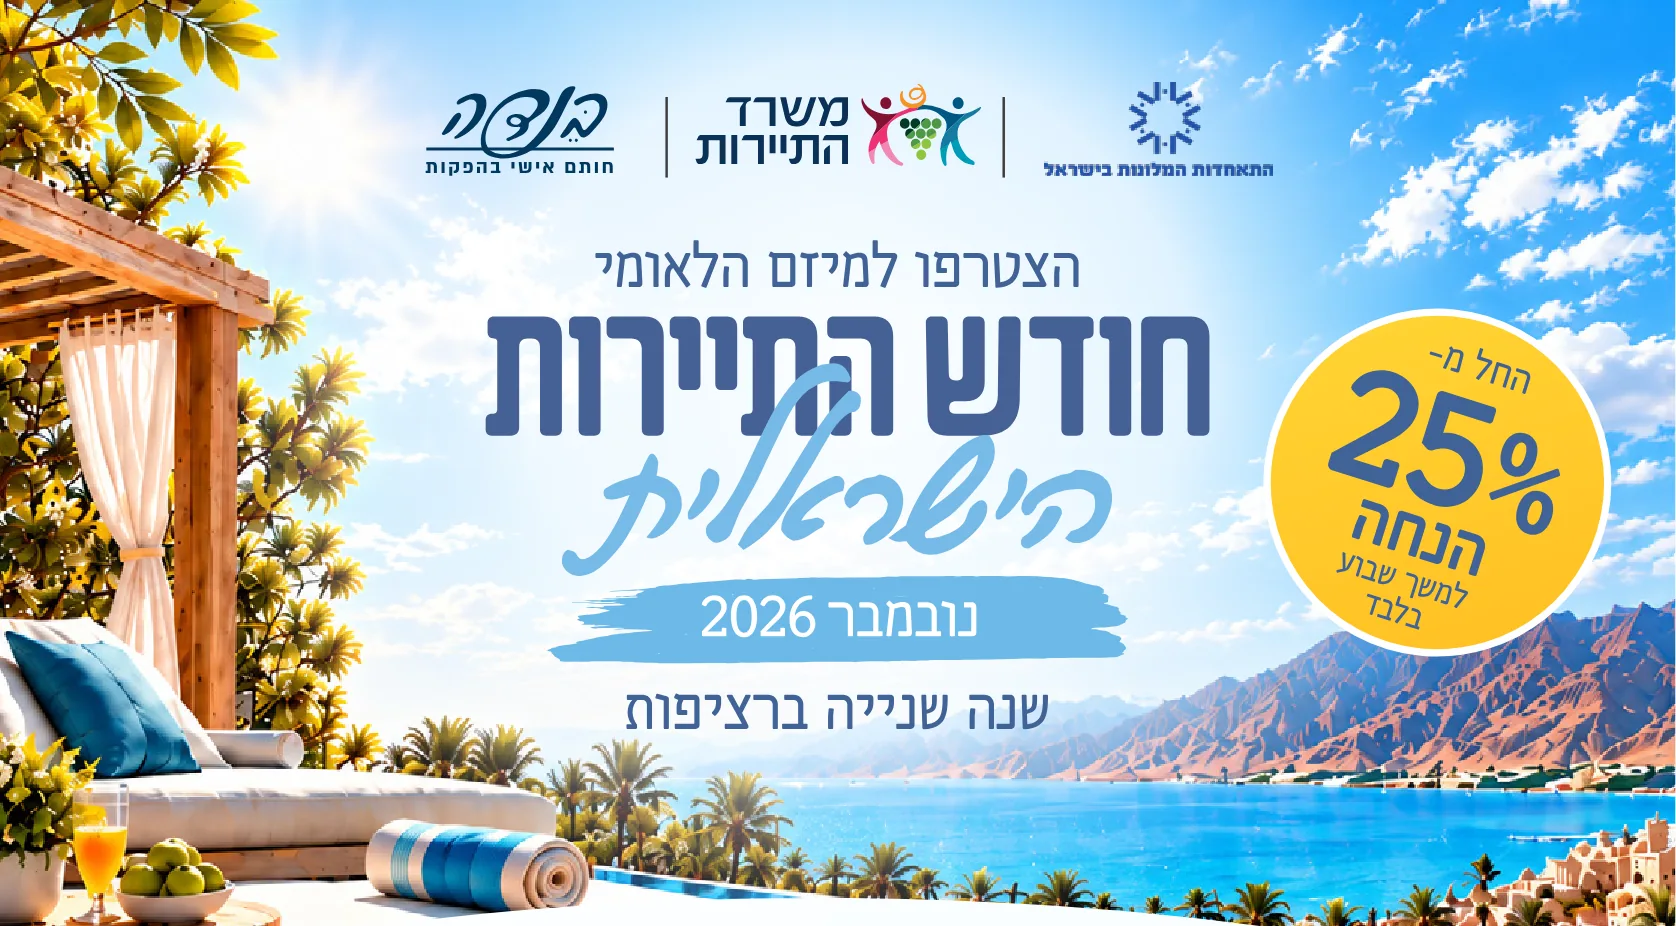
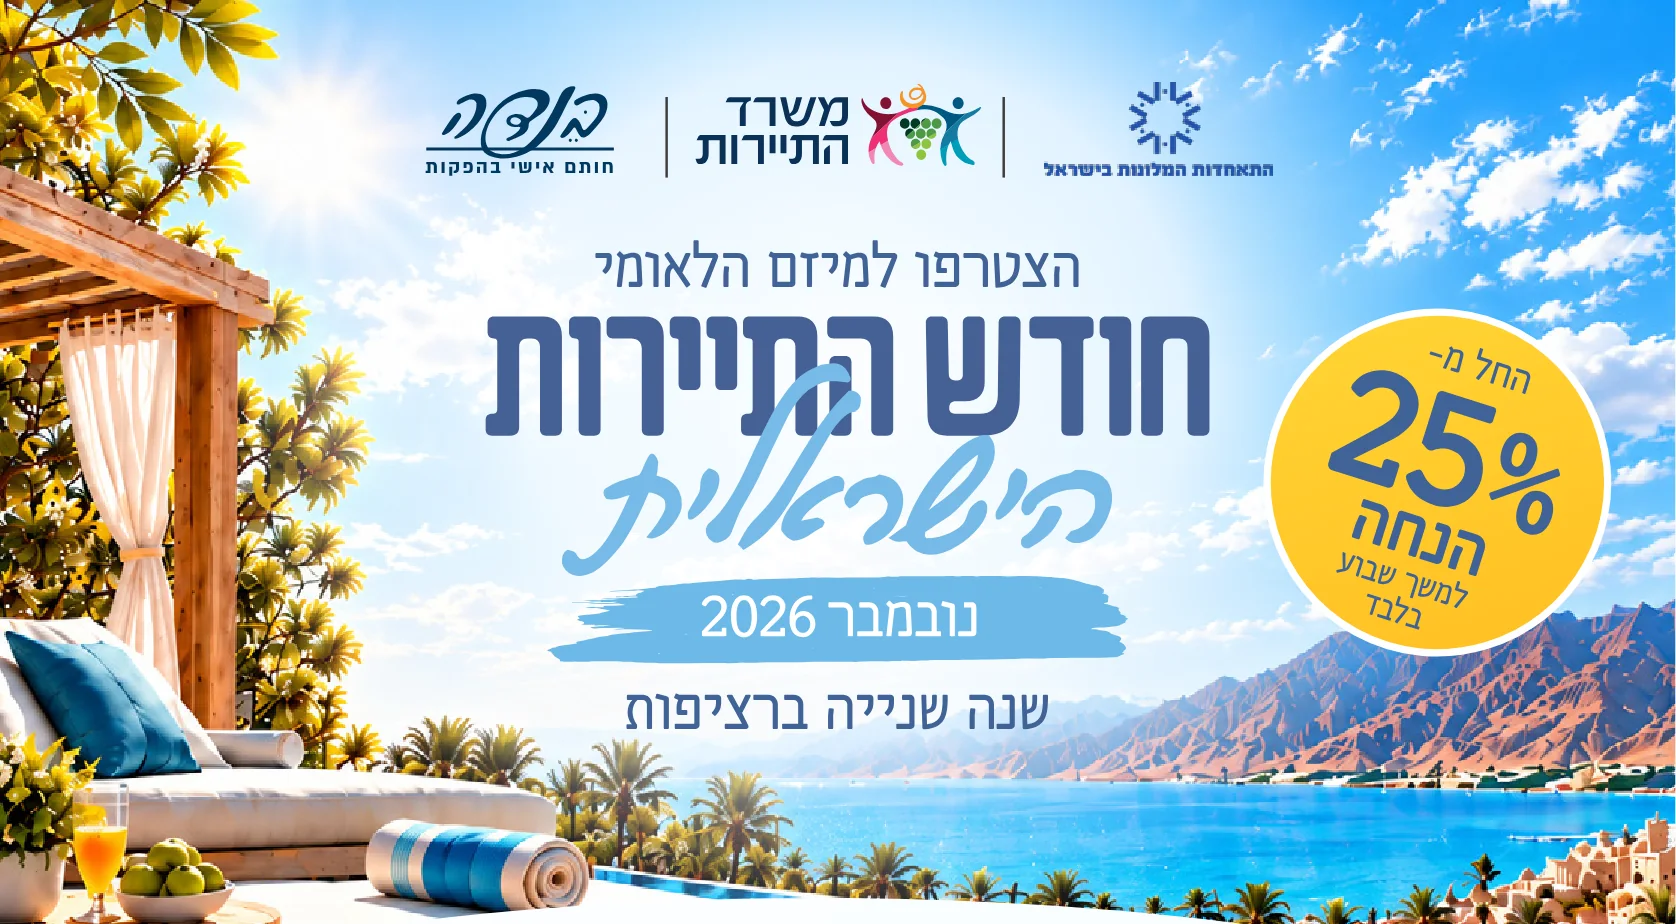
The hotels' call, one to one: the ad's top as the ad draws it, and whole leaves
The top of the page is the ad's top again, exactly as the PDF renders it
— the terrace, the bay, the sun's glow behind the type, the three marks,
the headline with the script across it, the brush, the badge — one
picture, nothing recomposed. A phone gets the same top cut to its text
column: the three marks, the headline and the badge whole, and no terrace.

The leaves come from the ad's vector layer, lifted with real transparency
(the page rendered over black and over white with every picture painted
flat; what differs is background showing through), so each cluster is
whole — no circle's edge, no straight cut. The week icons, the exposure
marks and the WhatsApp mark come from the same layer. On a phone the
leaves sit small at the top corners of each band, behind the pictures,
never on the copy.

Verified in a fresh browser at 390 and 1440: the hero at 1440 is the ad's
own top pixel for pixel; no horizontal scroll; every picture loads; the
end-to-end run through the hotels' call is ALL GREEN.

diff --git a/scripts/design/extract-hotel-assets.ts b/scripts/design/extract-hotel-assets.ts
@@ -1,94 +1,167 @@
 import { mkdirSync, readFileSync } from 'node:fs'
+import { resolve } from 'node:path'
+import { createCanvas } from '@napi-rs/canvas'
 import sharp from 'sharp'
 import { renderPdf } from '../qa/render-pdf'
 
 /**
  * Cuts the hotels' ad ("מודעה קליקבילית-1.pdf", the approved design for the
- * hotels' version of the call) into the pieces HotelCall.tsx composes: the
- * whole top as one picture, the four regional weeks with their pins, the
- * four exposure marks, the WhatsApp mark and the foot. Body copy is real
- * text on the page and is not cut.
+ * hotels' version of the call) into the pieces HotelCall.tsx composes.
  *
- * The ad is a PDF whose type is vector and whose pictures are embedded, so
- * it is rendered at 3× first (1676×2526) and cut from that; the boxes below
- * are in those pixels, written down from the ad at 1327 wide and scaled.
+ * The ad is a PDF: its photographs are embedded pictures, everything else —
+ * the type, the three marks, the badge, the brush, the leaves, the rings,
+ * the pins, the icons, the wave — is vector. Two renders serve the cuts:
+ *
+ *   • the plain render, exactly as the ad looks, for everything that is
+ *     placed as the ad places it: the whole top (one picture for wide
+ *     screens; the text column with the badge, for phones), the four weeks
+ *     and the foot;
+ *   • the vector layer, lifted with real transparency by rendering the page
+ *     twice, over black and over white, with every picture painted flat as
+ *     well — what differs between the two renders is background showing
+ *     through, and how much of it is the alpha — for the pieces that stand
+ *     somewhere else on the page: the leaves, the icons, the WhatsApp mark.
+ *
+ * Boxes are in the pixels of the 3× render (1676×2526).
  *
  *   npx tsx scripts/design/extract-hotel-assets.ts [path/to/ad.pdf]
  *   → public/tourism-2026/hotel/*.webp
  */
 const SRC = process.argv[2] ?? '.design/tourism-2026-hotel/ad.pdf'
 const OUT = 'public/tourism-2026/hotel'
-const S = 1676 / 1327
+const SCALE = 3
+const S = 1676 / 1327 // the ad at 1327 wide, where the boxes were first written down → render pixels
 
-type Box = { name: string; left: number; top: number; right: number; bottom: number; width?: number; quality?: number; /** Cut out of the paper: the page's own white shows through. */ keyed?: boolean; /** A box to paint over in the paper's white, in the crop's own pixels (the ad's own mark, replaced on the page). */ blank?: [number, number, number, number]; /** Keep only the ring and its pin: the leaves that reach into the box go. */ week?: boolean }
+type RGBA = { width: number; height: number; data: Buffer }
+
+// ── the three renders ────────────────────────────────────────────────────────
+
+async function renderMatte(fill: 0 | 255): Promise<RGBA> {
+  const pdfjs = await import('pdfjs-dist/legacy/build/pdf.mjs')
+  const doc = await pdfjs.getDocument({ data: new Uint8Array(readFileSync(SRC)), useSystemFonts: false, standardFontDataUrl: resolve('node_modules/pdfjs-dist/standard_fonts') + '/' }).promise
+  const page = await doc.getPage(1)
+  // The worker hands every picture to the renderer as the page draws; each one is painted flat as it lands.
+  const objs = page.objs as unknown as { resolve: (id: string, data: unknown) => void }
+  const orig = objs.resolve.bind(objs)
+  objs.resolve = (id, data) => {
+    const d = data as { width?: number; height?: number; data?: Uint8ClampedArray } | null
+    if (d?.data && d.width && d.height && d.data.length === d.width * d.height * 3) d.data.fill(fill)
+    orig(id, data)
+  }
+  const viewport = page.getViewport({ scale: SCALE })
+  const canvas = createCanvas(Math.ceil(viewport.width), Math.ceil(viewport.height))
+  const ctx = canvas.getContext('2d')
+  // eslint-disable-next-line @typescript-eslint/no-explicit-any
+  await page.render({ canvasContext: ctx as any, canvas: canvas as any, viewport, background: fill ? '#ffffff' : '#000000' }).promise
+  const { data } = ctx.getImageData(0, 0, canvas.width, canvas.height)
+  await doc.cleanup()
+  return { width: canvas.width, height: canvas.height, data: Buffer.from(data.buffer) }
+}
+
+/** The vector layer: colour from the render over black, alpha from how much lighter the render over white came out. */
+async function vectorLayer(): Promise<RGBA> {
+  const black = await renderMatte(0)
+  const white = await renderMatte(255)
+  const { width, height } = black
+  const out = Buffer.alloc(width * height * 4)
+  for (let i = 0; i < width * height; i++) {
+    let diff = 0
+    for (let c = 0; c < 3; c++) diff += white.data[i * 4 + c] - black.data[i * 4 + c]
+    const a = Math.max(0, Math.min(1, 1 - diff / (3 * 255)))
+    for (let c = 0; c < 3; c++) out[i * 4 + c] = a > 0 ? Math.min(255, Math.round(black.data[i * 4 + c] / a)) : 0
+    out[i * 4 + 3] = Math.round(a * 255)
+  }
+  return { width, height, data: out }
+}
+
+// ── the cuts ─────────────────────────────────────────────────────────────────
+
+type Box = {
+  name: string
+  left: number
+  top: number
+  right: number
+  bottom: number
+  /** From the vector layer (with its alpha) rather than the plain render. */
+  vector?: boolean
+  /** Keep only the leaf hues — the copy and the marks beside a leaf go. */
+  leaf?: boolean
+  /** Keep only the ring and its pin: the leaves that reach into the box go. */
+  week?: boolean
+  /** A box to paint over in the paper's white, in the crop's own pixels. */
+  blank?: [number, number, number, number]
+  width?: number
+  quality?: number
+}
 const d = (name: string, l: number, t: number, r: number, b: number, extra: Partial<Box> = {}): Box => ({ name, left: Math.round(l * S), top: Math.round(t * S), right: Math.round(r * S), bottom: Math.round(b * S), ...extra })
+const v = (name: string, left: number, top: number, right: number, bottom: number, extra: Partial<Box> = {}): Box => ({ name, left, top, right, bottom, vector: true, ...extra })
+const p = (name: string, left: number, top: number, right: number, bottom: number, extra: Partial<Box> = {}): Box => ({ name, left, top, right, bottom, ...extra })
 
 const CROPS: Box[] = [
-  // The whole top, cut just above the ad's first line of copy.
-  d('hero', 0, 0, 1327, 733, { width: 1676, quality: 82 }),
-  // The four weeks — photo, ring and pin — on the page's own white. Week 1 is the rightmost.
+  // The whole top, as the ad draws it, cut just above the first line of copy (its ascenders start at 926).
+  p('hero', 0, 0, 1676, 924, { quality: 84 }),
+  // The same top for a phone: the text column with the three marks and the badge, whole, and no terrace.
+  p('hero-phone', 380, 0, 1630, 924, { quality: 84 }),
+  // The leaves at the paper's edges — whole, since nothing covers them on the vector layer.
+  v('leaf-weeks-right', 1440, 1061, 1676, 1446, { leaf: true }),
+  v('leaf-weeks-left', 0, 1010, 253, 1408, { leaf: true }),
+  v('leaf-benefits-right', 1440, 1800, 1676, 2147, { leaf: true }),
+  v('leaf-benefits-left', 0, 1699, 253, 2109, { leaf: true }),
+  v('benefit-site', 1314, 1819, 1440, 1945),
+  v('benefit-press', 957, 1819, 1084, 1945),
+  v('benefit-social', 600, 1819, 726, 1945),
+  v('benefit-campaign', 240, 1819, 366, 1945),
+  v('whatsapp', 368, 2095, 466, 2194),
+  // The four weeks — photo, ring and pin — from the plain render. Week 1 is the rightmost.
   d('week-1', 950, 862, 1218, 1105, { week: true }),
   d('week-2', 672, 862, 940, 1105, { week: true }),
   d('week-3', 393, 862, 661, 1105, { week: true }),
   d('week-4', 99, 862, 367, 1105, { week: true }),
-  d('benefit-site', 1040, 1440, 1140, 1540),
-  d('benefit-press', 758, 1440, 858, 1540),
-  d('benefit-social', 475, 1440, 575, 1540),
-  d('benefit-campaign', 190, 1440, 290, 1540),
-  d('whatsapp', 291, 1659, 369, 1737),
-  // The leaves at the paper's edges, beside the weeks and beside the exposure marks.
-  d('leaf-weeks-right', 1222, 850, 1327, 1100, { keyed: true }),
-  d('leaf-weeks-left', 0, 802, 108, 1110, { keyed: true }),
-  d('leaf-benefits-right', 1215, 1430, 1327, 1660, { keyed: true }),
-  d('leaf-benefits-left', 0, 1350, 140, 1660, { keyed: true }),
-  // The foot: the three views and the mark, cut just under the ad's own button.
   // The foot: the three views under the wave. The ad's own mark is painted out; the page sets the real wordmark there.
   d('foot', 0, 1802, 1327, 2000, { width: 1676, quality: 80, blank: [728, 182, 952, 250] }),
 ]
 
-/**
- * Lifts a leaf off the paper. The paper is white, or the faint blue the ad
- * tints it; a leaf is green, olive and yellow — every channel well under
- * 255. How far the darkest channel sits below white is how much leaf a
- * pixel is, on a ramp so the soft edges stay soft.
- */
-function keyOut({ data, info }: { data: Buffer; info: { width: number; height: number; channels: number } }): Buffer {
-  const { width, height, channels } = info
-  const out = Buffer.alloc(width * height * 4)
-  for (let i = 0; i < width * height; i++) {
-    const r = data[i * channels], g = data[i * channels + 1], b = data[i * channels + 2]
-    const depth = 255 - Math.min(r, g, b)
-    const a = Math.max(0, Math.min(1, (depth - 22) / 70))
-    out[i * 4] = r
-    out[i * 4 + 1] = g
-    out[i * 4 + 2] = b
-    out[i * 4 + 3] = Math.round(a * 255)
+/** Keep only the leaves: green, olive and yellow hues; the navy copy, a cyan mark and a coloured pin are not leaf. */
+function leavesOnly(px: Buffer, w: number, h: number): Buffer {
+  const out = Buffer.from(px)
+  for (let i = 0; i < w * h; i++) {
+    const r = px[i * 4], g = px[i * 4 + 1], b = px[i * 4 + 2]
+    const max = Math.max(r, g, b), min = Math.min(r, g, b), sat = max - min
+    let keep = false
+    if (sat > 18) {
+      const hue = max === r ? (60 * (g - b)) / sat : max === g ? 120 + (60 * (b - r)) / sat : 240 + (60 * (r - g)) / sat
+      const hh = (hue + 360) % 360
+      keep = hh >= 28 && hh <= 140
+    }
+    if (!keep) out[i * 4 + 3] = 0
   }
   return out
 }
 
 async function main() {
   mkdirSync(OUT, { recursive: true })
-  const [page] = await renderPdf(readFileSync(SRC), 3)
-  console.log(`${SRC}: ${page.width}×${page.height}`)
+  const [plain] = await renderPdf(readFileSync(SRC), SCALE)
+  console.log(`${SRC}: ${plain.width}×${plain.height}`)
+  const vector = await vectorLayer()
+  const vectorPng = await sharp(vector.data, { raw: { width: vector.width, height: vector.height, channels: 4 } }).png().toBuffer()
+
   for (const box of CROPS) {
     const w = box.right - box.left
     const h = box.bottom - box.top
-    let img = sharp(page.png).extract({ left: box.left, top: box.top, width: w, height: h })
+    let img = sharp(box.vector ? vectorPng : plain.png).extract({ left: box.left, top: box.top, width: w, height: h })
     if (box.blank) {
       const [l, t, r, b] = box.blank
       img = sharp(await img.composite([{ input: { create: { width: r - l, height: b - t, channels: 3, background: '#f6fdff' } }, left: l, top: t }]).toBuffer())
     }
-    if (box.keyed) img = sharp(await keyOut(await img.raw().toBuffer({ resolveWithObject: true })), { raw: { width: w, height: h, channels: 4 } })
-    // The ring and the pin, nothing else: the boxes touch the leaves beside them, and a leaf tip in a corner is not the week's.
+    if (box.leaf) img = sharp(leavesOnly(await img.ensureAlpha().raw().toBuffer(), w, h), { raw: { width: w, height: h, channels: 4 } })
+    // The ring and the pin, nothing else. Measured on the render: the photo is a circle of r 134 about (173,152) with a white ring around it; the pin's head is r 22 about (57,214) and its tip reaches y 270.
     if (box.week) {
-      // Measured on the render: the photo is a circle of r 134 about (173,152) with a white ring around it; the pin's head is r 22 about (57,214) and its tip reaches y 270.
       const shape = Buffer.from(`<svg xmlns="http://www.w3.org/2000/svg" width="${w}" height="${h}"><circle cx="173" cy="152" r="142" fill="#fff"/><circle cx="57" cy="214" r="27" fill="#fff"/><polygon points="29,220 85,220 57,277" fill="#fff"/></svg>`)
       img = sharp(await img.ensureAlpha().composite([{ input: shape, blend: 'dest-in' }]).toBuffer())
     }
     if (box.width && box.width < w) img = img.resize({ width: box.width })
-    const info = await img.webp({ quality: box.quality ?? 90, effort: 6, alphaQuality: 100 }).toFile(`${OUT}/${box.name}.webp`)
-    console.log(`${box.name}: ${info.width}×${info.height} ${Math.round(info.size / 1024)}KB`)
+    const out = await img.webp({ quality: box.quality ?? 90, effort: 6, alphaQuality: 100 }).toFile(`${OUT}/${box.name}.webp`)
+    console.log(`${box.name}: ${out.width}×${out.height} ${Math.round(out.size / 1024)}KB`)
   }
 }
 

diff --git a/src/app/[slug]/HotelCall.tsx b/src/app/[slug]/HotelCall.tsx
@@ -12,14 +12,14 @@ import { FloatingCta } from './FloatingCta'
  * form, on the same address, and the form knows nothing about it.
  *
  * The ad's top — terrace, bay, the three marks, the headline in its own
- * faces and the discount badge — is one picture, since none of that type
- * has a font. Everything under it is real text: the invitation, the four
- * regional weeks with the ad's own photographs, the hotel packages, the
- * four kinds of exposure, the contact line and the button, with the ad's
- * leaves at the paper's edges. On a phone the picture is cropped to the
- * three marks and the headline, and the badge is drawn again in CSS, where
- * the crop cannot reach it. The ad signs off with its own XTRA mark; here
- * the real wordmark stands in its place.
+ * faces, the badge, the sun's glow behind the type — is one picture, exactly
+ * as the ad draws it; none of that type has a font. A phone gets the same
+ * top cut to its text column: the three marks, the headline and the badge,
+ * whole, and no terrace. Everything under the picture is real text: the
+ * invitation, the four regional weeks with the ad's own photographs, the
+ * hotel packages, the four kinds of exposure, the contact line and the
+ * button, with the ad's leaves at the paper's edges. The ad signs off with
+ * its own XTRA mark; here the real wordmark stands in its place.
  */
 
 const INTRO = [
@@ -49,20 +49,17 @@ const CONTACT = { name: 'יהודית', phone: '050-5323298', whatsapp: 'https:/
 
 const HERO_ALT = 'הצטרפו למיזם הלאומי: חודש התיירות הישראלית, נובמבר 2026, שנה שנייה ברציפות. החל מ־25% הנחה למשך שבוע בלבד. משרד התיירות, התאחדות המלונות בישראל, בנדה הפקות.'
 
+
 export function HotelCall({ formId, joinHref }: { formId: string; joinHref: string }) {
   return (
     <main className="tl-page th-page">
       <header className="th-hero">
         <h1 className="th-hero-media">
-          <img src="/tourism-2026/hotel/hero.webp" alt={HERO_ALT} width={1676} height={926} fetchPriority="high" />
+          <picture>
+            <source media="(max-width: 859.98px)" srcSet="/tourism-2026/hotel/hero-phone.webp" width={1250} height={924} />
+            <img src="/tourism-2026/hotel/hero.webp" alt={HERO_ALT} width={1676} height={924} fetchPriority="high" />
+          </picture>
         </h1>
-        {/* The badge is in the picture; a phone's crop loses it, so it is drawn again there. */}
-        <p className="th-badge" aria-hidden="true">
-          <span>החל מ־</span>
-          <strong>25%</strong>
-          <span>הנחה</span>
-          <small>למשך שבוע בלבד</small>
-        </p>
       </header>
 
       <div className="th-body">

diff --git a/src/app/[slug]/hotel.css b/src/app/[slug]/hotel.css
@@ -22,24 +22,20 @@
 /* ── the picture ─────────────────────────────────────────────────────────── */
 
 .th-hero {
-  position: relative;
   width: min(100%, 2000px);
   margin: 0 auto;
 }
 
 .th-hero-media {
   margin: 0;
-  overflow: hidden;
 }
 
+/* Typed on the element: `.tl-root img` sets the same properties at the same weight. */
+img.th-hero-media,
 .th-hero-media img {
+  display: block;
   width: 100%;
   height: auto;
-}
-
-/* Drawn only where the crop hides the ad's own badge (phones, below). */
-.th-badge {
-  display: none;
 }
 
 /* ── the column ──────────────────────────────────────────────────────────── */
@@ -325,71 +321,19 @@
 @media (max-width: 859.98px) {
   /* The picture is cropped to what a narrow screen can read: the three marks
      and the headline, with the badge drawn back in at the corner. */
-  /* Wide enough to keep all three marks; the badge is drawn back in at the corner. */
-  .th-hero-media {
-    aspect-ratio: 15 / 16;
+  /* The leaves stay at the edges, small, and only where a picture is: at
+     the top corners of each band, behind the circles and the marks, never
+     on the copy above. */
+  .th-leaf-weeks-right,
+  .th-leaf-weeks-left {
+    top: 6px;
+    width: 58px;
   }
 
-  .th-hero-media img {
-    width: 100%;
-    height: 100%;
-    object-fit: cover;
-    object-position: 52% 0;
-  }
-
-  .th-badge {
-    position: absolute;
-    right: 6px;
-    bottom: 4px;
-    display: grid;
-    place-content: center;
-    width: 92px;
-    aspect-ratio: 1;
-    margin: 0;
-    border-radius: 50%;
-    background: var(--th-sun);
-    color: #2f4f8f;
-    text-align: center;
-    line-height: 1;
-    transform: rotate(-8deg);
-    box-shadow: 0 10px 24px rgba(0, 0, 0, 0.2);
-  }
-
-  .th-badge span {
-    font-size: 13px;
-    font-weight: 700;
-  }
-
-  .th-badge strong {
-    font-size: 31px;
-    font-weight: 800;
-    letter-spacing: -0.02em;
-  }
-
-  .th-badge small {
-    margin-top: 2px;
-    font-size: 9px;
-    font-weight: 600;
-  }
-
-  /* The leaves stay at the edges, smaller, behind the pictures. */
-  .th-leaf-weeks-left,
+  .th-leaf-benefits-right,
   .th-leaf-benefits-left {
-    top: -8px;
-  }
-
-  /* Under the strip there is no white left for the mark: it gets its own line. */
-  .th-foot {
-    padding-bottom: 12px;
-    background: #fff;
-  }
-
-  .th-foot-mark {
-    position: static;
-    display: block;
-    width: 104px;
-    margin: 10px auto 0;
-    transform: none;
+    top: -6px;
+    width: 52px;
   }
 
   .th-body {
